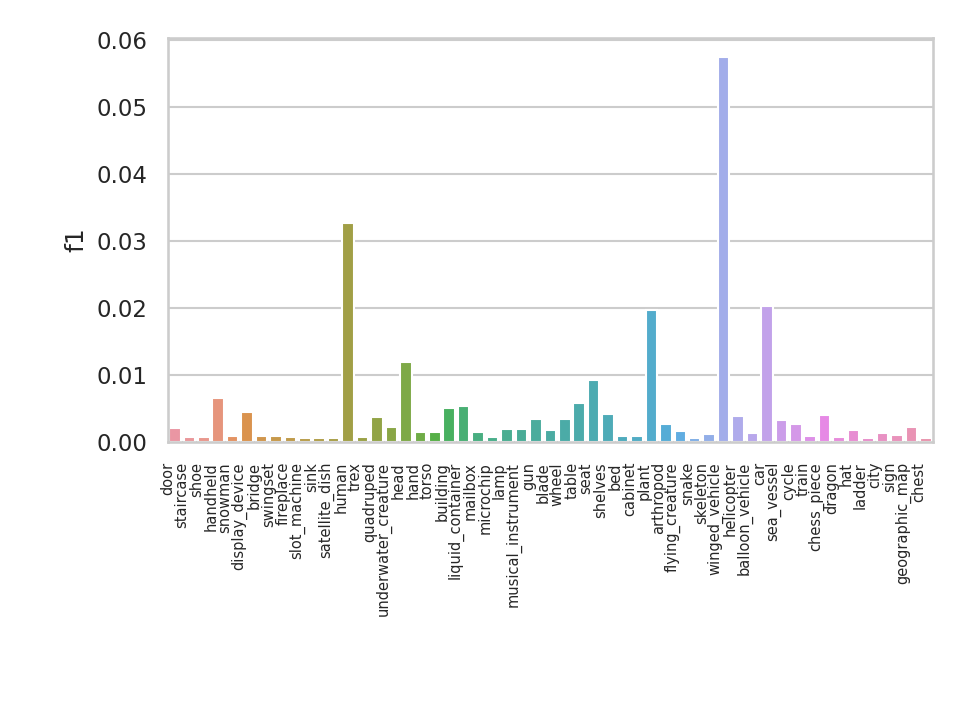
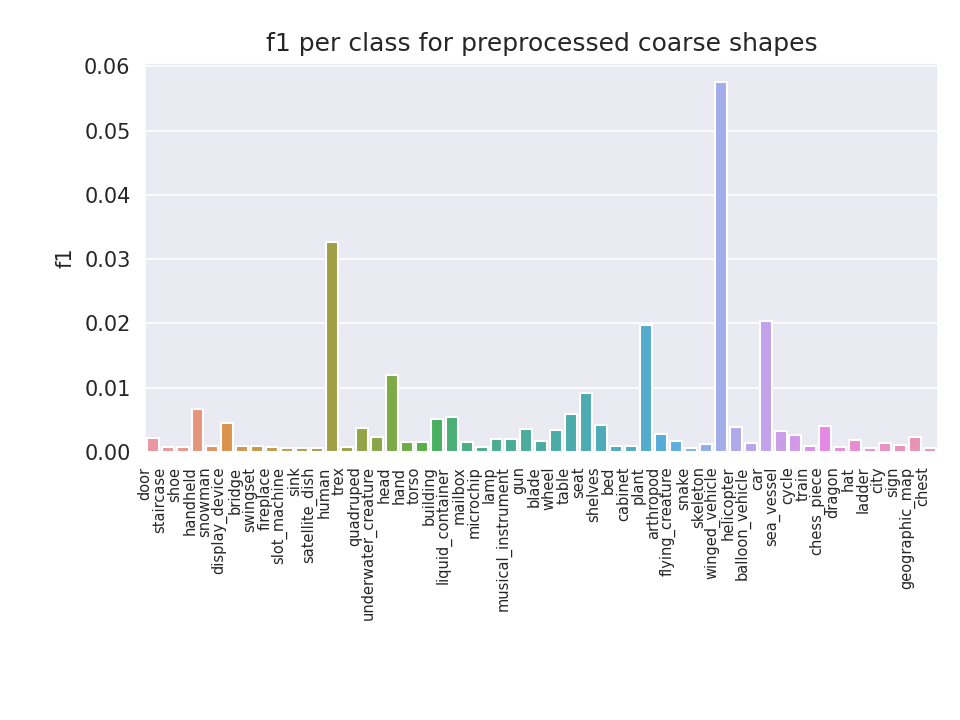
hgraphs

diff --git a/src/evaluate_dataset.py b/src/evaluate_dataset.py
@@ -31,19 +31,23 @@ class Evaluator:
         self.class_counts = self.df['classification'].value_counts()
 
     def evaluate(self, baseline = False):
+        self.baseline = baseline
         for idx, (classification,model)  in enumerate(self.database_class_path.values):
             #Number of results is based on the number of shapes in a class 
             n_results = self.class_counts[classification]
-    
-            if baseline:
+
+            if self.baseline:
                 _, indices = self.faiss_knn.query_baseline(self.df_numeric.iloc[idx].values, n_results)
+                self.results.append((classification, indices))
+
             else:
                 _, indices = self.faiss_knn.query(self.df_numeric.iloc[idx].values, n_results)
-            
-            self.results.append((classification, indices.flatten()))
+                self.results.append((classification, indices.flatten()))
+
 
         self.analysis()
 
+    
 
     def analysis(self):   
         self.overall_accuracy_per_class = 0
@@ -63,7 +67,14 @@ class Evaluator:
             accuracy.append((true_positives + true_negatives) / len(self.df)) 
             precision.append(true_positives / len(indices))
             recall.append(true_positives / self.class_counts[classification])
-            f1.append(2 * ((recall[-1] * precision[-1]) / (recall[-1] + precision[-1])))
+            if self.baseline:
+                if recall[-1] == 0 or precision[-1] == 0:
+                    f1.append(0)
+                else:
+                    f1.append(2 * ((recall[-1] * precision[-1]) / (recall[-1] + precision[-1])))
+
+            else:
+                f1.append(2 * ((recall[-1] * precision[-1]) / (recall[-1] + precision[-1])))
 
             self.metrics_per_class["accuracy"][classification].append(accuracy[-1])
             self.metrics_per_class["precision"][classification].append(precision[-1])
@@ -90,9 +101,11 @@ class Evaluator:
 
 def make_graphs(test,file_name):
     
-    sns.set_theme(style="whitegrid")
+    sns.set_style('darkgrid')
+    del test.metrics["accuracy"]
     df = pd.DataFrame.from_dict(test.metrics,orient="index")
     df.columns = ["metric"]
+   # df.drop(['accuracy'])
     ax = sns.barplot(x=df.index, y="metric", data=df)
     plt.xticks(
         rotation=45, 
@@ -103,24 +116,52 @@ def make_graphs(test,file_name):
     ax.tick_params(axis='x', labelsize=11)
 
     file_name = file_name.replace(".","")
+    
+    if file_name == "baseline":
+        plt.title(f"Average metrics baseline")
+    elif "coarse" and "processed" in file_name:
+        plt.title(f"Average metrics for preprocessed coarse shapes")
+    elif "processed" in file_name:
+        plt.title(f"Average metrics for preprocessed shapes")
+    else:
+        plt.title(f"Average metrics for unprocessed shapes")
+
     plt.tight_layout()
     plt.savefig(fr"graphs/evaluations/{file_name}_all_metrics",dpi=150)
     plt.clf()
 
     for metric, classes in test.metrics_per_class.items():
         
+        if metric == "accuracy":
+            continue
         df = pd.DataFrame.from_dict(classes,orient="index")
         df.columns = [metric]
         ax = sns.barplot(x=df.index, y=metric, data=df)
-        #ax.set_xticklabels(ax.get_xticklabels(), rotation=45, horizontalalignment='right')
-        plt.xticks(
-            rotation=90, 
-            horizontalalignment='right',
-            fontweight='light',
-            fontsize='x-small'  
-        )
+
+        if file_name == "baseline":
+            plt.title(f"{metric} per class metrics baseline")
+        elif "coarse" and "processed" in file_name:
+            plt.title(f"{metric} per class for preprocessed coarse shapes")
+        elif "processed" in file_name:
+            plt.title(f"{metric} pe5r class for preprocessed shapes")
+        else:
+            plt.title(f"{metric} per class for unprocessed shapes")
+
+        if "coarse" in file_name:  
+            ax.set_xticklabels(ax.get_xticklabels(), rotation=90, horizontalalignment='right', fontweight='light',fontsize='x-large' )
+            ax.tick_params(axis='x', labelsize=7)
+        else:
+            ax = sns.barplot(x=df.index, y=metric, data=df)
+            ax.set_xticklabels([], horizontalalignment='right', fontweight='light',fontsize='x-large' )
+           # plt.xticks(
+           #     rotation=45, 
+           #     horizontalalignment='right',
+           #     fontweight='light',
+           #     fontsize='x-small'  
+           # )
         ax.tick_params(axis='x', labelsize=7)
-        
+
+
         plt.tight_layout()
         plt.savefig(fr"graphs/evaluations/{file_name}_{metric}",dpi=150)
         plt.clf()
@@ -132,6 +173,7 @@ if __name__ == '__main__':
     #data_path = Path("processed_data/data_processed_10000_1000000.0.csv")
     data_path = Path("processed_data")
 
+    
     for subdir, dirs, files in os.walk(data_path):
         for file_name in files:
             df, *_ = process_dataset_for_knn(os.path.join(subdir, file_name),divide_distributions=False)
@@ -139,3 +181,7 @@ if __name__ == '__main__':
             test = Evaluator(df)
             test.evaluate()
             make_graphs(test,file_name)
+    
+    baseline_test = Evaluator(df)
+    baseline_test.evaluate(baseline = True)
+    make_graphs(baseline_test,"baseline")

diff --git a/src/faiss_knn.py b/src/faiss_knn.py
@@ -48,7 +48,7 @@ class FaissKNeighbors:
         return distances, indices
 
     def query_baseline(self,query,n_results):
-        indices = random.choices(np.arange(0, len(self.dataset),1), n_results)
+        indices = random.choices(np.arange(0, len(self.dataset),1), k = n_results)
         distances = np.zeros(len(indices))
 
         return distances, indices
